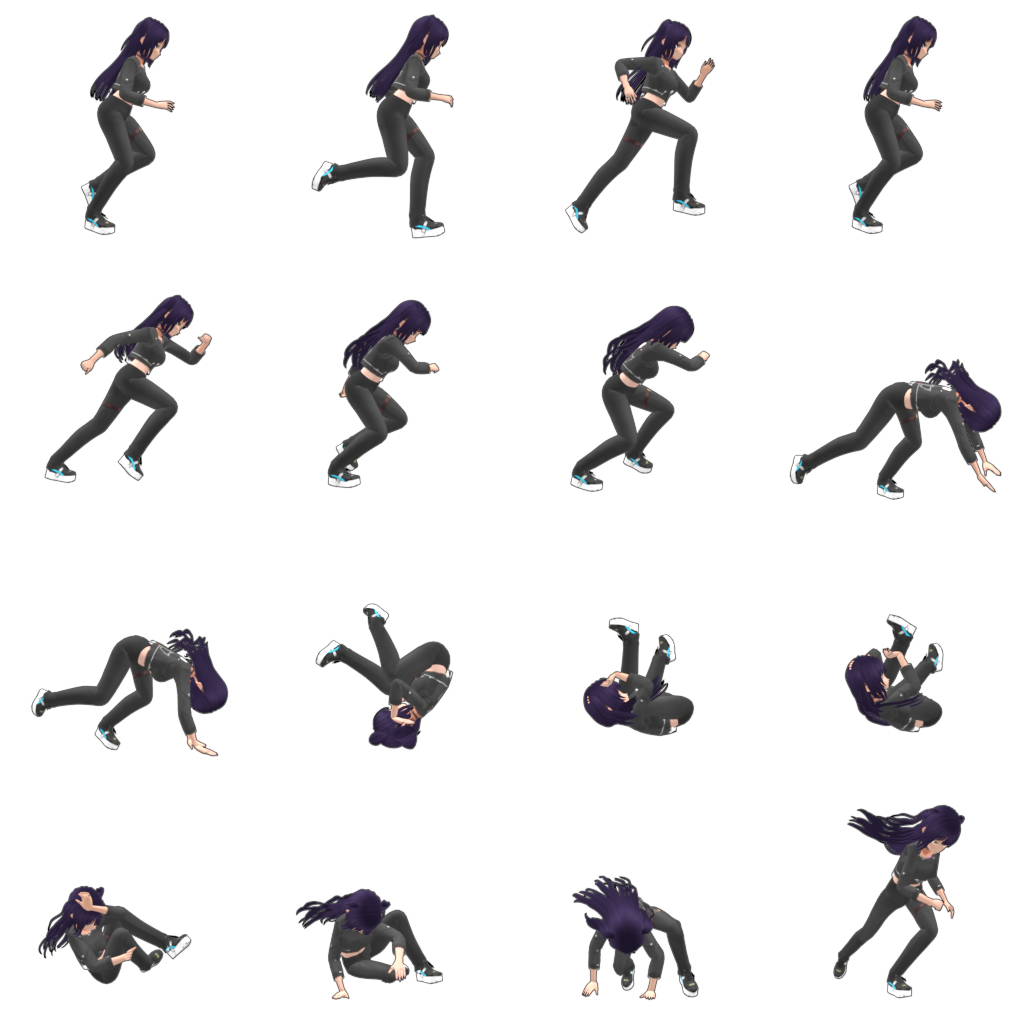
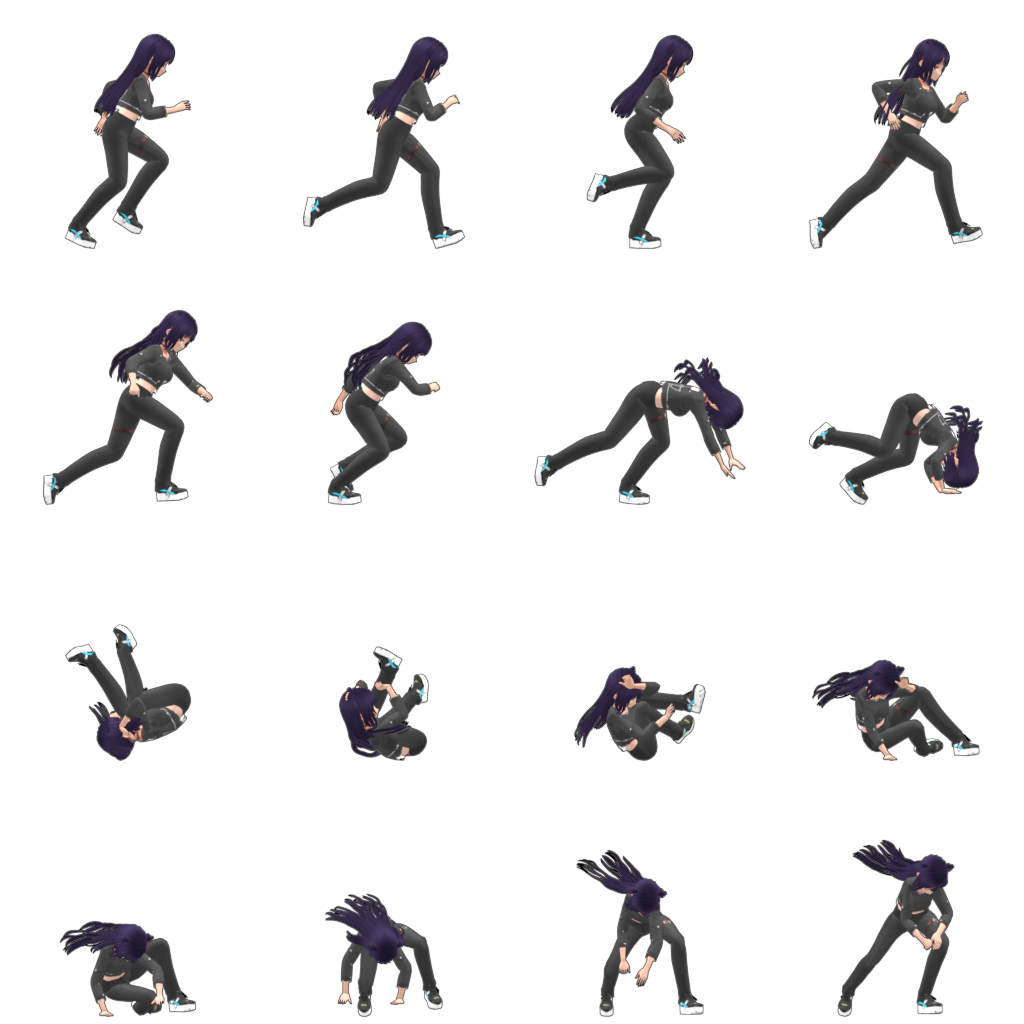
Add perframe_ground camera, make sheet 02 reproducible, clean up hybrid camera
- New camera_perframe_ground.py: per-frame ground tracking for rolling/tumbling
  animations (both axes track per-frame, character bottom always near frame edge)
- Wire perframe_ground camera into render_from_scene() pipeline
- Sheet 02 config: add scene, camera, scene_end, hand-picked selected_frames
- Sheet 08 config: update Getting Up segment picks
- select_frames(): use saved selected_frames from config when present
- load_scene(): filter both Tracker and Marker meshes
- render_from_scene(): support scene_end override from config
- camera_hybrid.py: remove ungrounded_ranges, add below-ground auto-tracking

diff --git a/scripts/camera_perframe_ground.py b/scripts/camera_perframe_ground.py
@@ -1,0 +1,176 @@
+"""
+Per-Frame Ground Camera for Sprite Sheet Rendering
+====================================================
+Variant of hybrid camera where BOTH axes track per-frame:
+  - Horizontal: per-frame mesh center (same as hybrid)
+  - Vertical: per-frame ground anchoring (character's lowest point always
+    near frame bottom)
+
+Used for animations with extreme vertical movement (rolling, tumbling)
+where a fixed ground level causes the character to float or clip.
+
+ortho_scale is still locked from a reference frame for consistent sizing.
+
+Usage via Blender MCP:
+    import sys, types
+    with open(r"C:\\dev\\loracomp3\\scripts\\camera_perframe_ground.py") as f:
+        mod = types.ModuleType("camera_perframe_ground")
+        exec(f.read(), mod.__dict__)
+        sys.modules['camera_perframe_ground'] = mod
+
+    camera_perframe_ground.setup_camera_perframe_ground(rs._state, reference_frame=1)
+"""
+
+import bpy
+import math
+import time
+
+
+# Camera settings (same as render_sheet.py / camera_hybrid.py)
+CAM_DEPTH = -2.4
+CAM_PADDING = 1.15
+CAM_BASE_ROTATION = (math.pi / 2, 0)
+DEFAULT_CAM_Z = -math.pi / 2
+GROUND_MARGIN = 0.03
+
+
+def _get_screen_bounds_at_frame(scene, meshes, frame, cam_z_rot):
+    """Get screen-space bounds of deformed meshes at a specific frame."""
+    scene.frame_set(frame)
+    depsgraph = bpy.context.evaluated_depsgraph_get()
+
+    cos_t = math.cos(cam_z_rot)
+    sin_t = math.sin(cam_z_rot)
+
+    h_min = float('inf')
+    h_max = float('-inf')
+    z_min = float('inf')
+    z_max = float('-inf')
+
+    for mesh_obj in meshes:
+        eval_obj = mesh_obj.evaluated_get(depsgraph)
+        mesh_data = eval_obj.to_mesh()
+        for v in mesh_data.vertices:
+            world_co = eval_obj.matrix_world @ v.co
+            h = world_co.x * cos_t + world_co.y * sin_t
+            h_min = min(h_min, h)
+            h_max = max(h_max, h)
+            z_min = min(z_min, world_co.z)
+            z_max = max(z_max, world_co.z)
+        eval_obj.to_mesh_clear()
+
+    return h_min, h_max, z_min, z_max
+
+
+def _cam_world_position(h_center, cam_z, cam_z_rot, depth=CAM_DEPTH):
+    """Compute camera world XYZ from screen-space horizontal center."""
+    cos_t = math.cos(cam_z_rot)
+    sin_t = math.sin(cam_z_rot)
+
+    cam_x = depth * (-sin_t) + h_center * cos_t
+    cam_y = depth * cos_t + h_center * sin_t
+
+    return (cam_x, cam_y, cam_z)
+
+
+def setup_camera_perframe_ground(state, reference_frame=None, padding=CAM_PADDING,
+                                  ground_margin=GROUND_MARGIN, ortho_scale_override=None):
+    """
+    Per-frame ground camera: both axes track per-frame.
+
+    Horizontal: per-frame mesh center in screen space.
+    Vertical: per-frame ground anchoring — character's lowest point always
+    at ground_margin from the frame bottom.
+
+    ortho_scale locked from reference frame (or overridden).
+
+    Args:
+        state: The _state dict from render_sheet.py
+        reference_frame: Frame for scale reference. If None, first frame.
+        padding: Padding multiplier for ortho_scale (default 1.15)
+        ground_margin: Fraction of frame below ground line (default 0.03)
+        ortho_scale_override: Force a specific ortho_scale
+
+    Returns:
+        cam_obj: The created camera object
+    """
+    scene = bpy.context.scene
+    meshes = state['meshes']
+
+    if not meshes:
+        raise RuntimeError("No meshes found in state.")
+
+    if reference_frame is None:
+        reference_frame = state['scene_start']
+
+    cam_z_rot = DEFAULT_CAM_Z
+
+    # Remove existing camera
+    for obj in list(bpy.data.objects):
+        if obj.type == 'CAMERA':
+            bpy.data.objects.remove(obj, do_unlink=True)
+    for cam in list(bpy.data.cameras):
+        bpy.data.cameras.remove(cam)
+
+    # Create camera
+    cam_data = bpy.data.cameras.new("Camera")
+    cam_data.type = 'ORTHO'
+    cam_obj = bpy.data.objects.new("Camera", cam_data)
+    bpy.context.scene.collection.objects.link(cam_obj)
+    scene.camera = cam_obj
+
+    t = time.time()
+
+    # === Phase 1: Reference scale ===
+    h_min, h_max, z_min, z_max = _get_screen_bounds_at_frame(
+        scene, meshes, reference_frame, cam_z_rot
+    )
+    ref_scale = max(h_max - h_min, z_max - z_min) * padding
+
+    print(f"Phase 1: Reference frame {reference_frame}")
+    print(f"  span_h={h_max - h_min:.3f}, span_z={z_max - z_min:.3f}, ref_scale={ref_scale:.3f}")
+
+    # === Phase 2: Per-frame bounds ===
+    max_h_span = 0
+    frame_data = {}
+
+    for f in range(state['scene_start'], state['scene_end'] + 1):
+        f_h_min, f_h_max, f_z_min, f_z_max = _get_screen_bounds_at_frame(
+            scene, meshes, f, cam_z_rot
+        )
+        h_center = (f_h_min + f_h_max) / 2
+        h_span = f_h_max - f_h_min
+        frame_data[f] = (h_center, f_z_min)
+        max_h_span = max(max_h_span, h_span)
+
+    phase2_time = time.time() - t
+    print(f"Phase 2: {len(frame_data)} frames scanned in {phase2_time:.1f}s")
+    print(f"  Max horizontal span: {max_h_span:.3f}")
+
+    # === Phase 3: Final scale ===
+    if ortho_scale_override is not None:
+        final_scale = ortho_scale_override
+        print(f"Phase 3: Using forced ortho_scale={final_scale:.3f}")
+    else:
+        max_h_padded = max_h_span * padding
+        if max_h_padded > ref_scale:
+            print(f"Phase 3: Bumping scale {ref_scale:.3f} -> {max_h_padded:.3f}")
+            final_scale = max_h_padded
+        else:
+            final_scale = ref_scale
+            print(f"Phase 3: Using ref_scale={final_scale:.3f}")
+
+    cam_data.ortho_scale = final_scale
+
+    # === Bake: per-frame ground tracking ===
+    for f, (hc, f_z_min) in frame_data.items():
+        f_cam_z = f_z_min + final_scale * (0.5 - ground_margin)
+        pos = _cam_world_position(hc, f_cam_z, cam_z_rot)
+        cam_obj.location = pos
+        cam_obj.rotation_euler = (CAM_BASE_ROTATION[0], CAM_BASE_ROTATION[1], cam_z_rot)
+        cam_obj.keyframe_insert(data_path='location', frame=f)
+
+    total_time = time.time() - t
+    print(f"\nCamera PERFRAME_GROUND done: ortho_scale={final_scale:.3f}, {total_time:.1f}s")
+
+    return cam_obj

diff --git a/scripts/render_sheet.py b/scripts/render_sheet.py
@@ -615,6 +615,17 @@ def select_frames(config=None):
     if config is None:
         config = _state['config']
 
+    # If hand-picked frames exist in config, use them directly
+    if 'selected_frames' in config:
+        all_frames = config['selected_frames']
+        expr_map = {}
+        _state['selected_frames'] = all_frames
+        _state['expression_map'] = expr_map
+        print(f"\n--- Frame Selection ({len(all_frames)} frames, from config) ---")
+        for i, f in enumerate(all_frames):
+            print(f"  Frame {i+1:2d}: scene={f}")
+        return all_frames, expr_map
+
     arm = _state['armature']
     nla_tracks = arm.animation_data.nla_tracks
 
@@ -1005,6 +1016,8 @@ def render_from_scene(config_path, blend_path=None):
     Camera mode is read from config "camera" field:
       - "hybrid": Ground-anchored + horizontal centering (camera_hybrid.py).
                   Supports "camera_reference_frame" and "camera_ortho_scale".
+      - "perframe_ground": Per-frame ground tracking (camera_perframe_ground.py).
+                  Both axes track per-frame. For animations with extreme vertical movement.
       - absent/null: Uses whatever camera is already in the .blend file.
 
     Usage:
@@ -1020,10 +1033,17 @@ def render_from_scene(config_path, blend_path=None):
     if blend_path:
         load_scene(blend_path)
 
+    # Override scene range from config (e.g., when .blend frame_end exceeds NLA)
+    if config.get('scene_end'):
+        _state['scene_end'] = config['scene_end']
+        print(f"  scene_end overridden to {_state['scene_end']}")
+
     # Camera setup from config
     camera_mode = config.get('camera')
     if camera_mode == 'hybrid':
         _setup_hybrid_camera(config)
+    elif camera_mode == 'perframe_ground':
+        _setup_perframe_ground_camera(config)
 
     setup_render_settings()
     frames, expr_map = select_frames(config)
@@ -1067,6 +1087,24 @@ def _setup_hybrid_camera(config):
     )
 
 
+def _setup_perframe_ground_camera(config):
+    """Set up per-frame ground tracking camera from config settings."""
+    import importlib.util
+    pfg_path = os.path.join(BASE_DIR, "scripts", "camera_perframe_ground.py")
+    spec = importlib.util.spec_from_file_location("camera_perframe_ground", pfg_path)
+    camera_pfg = importlib.util.module_from_spec(spec)
+    spec.loader.exec_module(camera_pfg)
+
+    ref_frame = config.get('camera_reference_frame')
+    ortho_override = config.get('camera_ortho_scale')
+
+    camera_pfg.setup_camera_perframe_ground(
+        _state,
+        reference_frame=ref_frame,
+        ortho_scale_override=ortho_override,
+    )
+
+
 def load_scene(blend_path):
     """
     Open a saved .blend file and populate _state from the existing scene.
@@ -1085,13 +1123,15 @@ def load_scene(blend_path):
 
     _state['armature'] = armature
     all_meshes = [c for c in armature.children if c.type == 'MESH']
-    # Filter out tracker/helper meshes (e.g., HipTracker, FootTracker)
-    _state['meshes'] = [m for m in all_meshes if 'Tracker' not in m.name]
+    # Filter out tracker/helper/marker meshes
+    _state['meshes'] = [m for m in all_meshes
+                        if 'Tracker' not in m.name and 'Marker' not in m.name]
     _state['scene_start'] = scene.frame_start
     _state['scene_end'] = scene.frame_end
 
-    # Hide tracker meshes from render
-    trackers = [m for m in all_meshes if 'Tracker' in m.name]
+    # Hide tracker/marker meshes from render
+    trackers = [m for m in all_meshes
+                if 'Tracker' in m.name or 'Marker' in m.name]
     for t in trackers:
         t.hide_render = True
         t.hide_viewport = True

diff --git a/scripts/camera_hybrid.py b/scripts/camera_hybrid.py
@@ -60,6 +60,7 @@ def _get_cam_z_rotation(rotations, frame):
     return DEFAULT_CAM_Z
 
 
+
 def _get_screen_bounds_at_frame(scene, meshes, frame, cam_z_rot):
     """Get screen-space bounds of deformed meshes at a specific frame.
 
@@ -191,7 +192,7 @@ def setup_camera_hybrid(state, reference_frame=None, padding=CAM_PADDING,
     # === Phase 2: Per-frame screen-space centering ===
     max_h_span = 0
     max_h_span_frame = reference_frame
-    frame_data = {}  # frame -> (h_center, cam_z_rot)
+    frame_data = {}  # frame -> (h_center, f_z_min, f_z_max, cam_z_rot)
 
     for f in range(state['scene_start'], state['scene_end'] + 1):
         f_z_rot = _get_cam_z_rotation(camera_rotations, f)
@@ -201,7 +202,7 @@ def setup_camera_hybrid(state, reference_frame=None, padding=CAM_PADDING,
         h_center = (f_h_min + f_h_max) / 2
         h_span = f_h_max - f_h_min
 
-        frame_data[f] = (h_center, f_z_rot)
+        frame_data[f] = (h_center, f_z_min, f_z_max, f_z_rot)
 
         if h_span > max_h_span:
             max_h_span = h_span
@@ -234,8 +235,12 @@ def setup_camera_hybrid(state, reference_frame=None, padding=CAM_PADDING,
     cam_data.ortho_scale = final_scale
 
     # === Bake camera keyframes ===
-    for f, (hc, z_rot) in frame_data.items():
-        pos = _cam_world_position(hc, cam_z, z_rot)
+    # Ground-anchored: cam_z fixed from reference ground level.
+    # If character goes below ground, track downward to avoid clipping.
+    for f, (hc, f_z_min, f_z_max, z_rot) in frame_data.items():
+        effective_ground = min(f_z_min, ground_z)
+        f_cam_z = effective_ground + final_scale * (0.5 - ground_margin)
+        pos = _cam_world_position(hc, f_cam_z, z_rot)
         cam_obj.location = pos
         cam_obj.rotation_euler = (CAM_BASE_ROTATION[0], CAM_BASE_ROTATION[1], z_rot)
         cam_obj.keyframe_insert(data_path='location', frame=f)
@@ -258,7 +263,7 @@ def setup_camera_hybrid(state, reference_frame=None, padding=CAM_PADDING,
     rot_info = f", {len(camera_rotations)} rotation ranges" if has_rotations else ""
     print(f"\nCamera HYBRID done: ortho_scale={final_scale:.3f}, cam_z={cam_z:.3f}, "
           f"{total_time:.1f}s{rot_info}")
-    print(f"  View range Z: [{ground_z - ground_margin * final_scale:.3f}, "
+    print(f"  View range Z (standing): [{ground_z - ground_margin * final_scale:.3f}, "
           f"{ground_z + final_scale * (1 - ground_margin):.3f}]")
 
     return cam_obj
